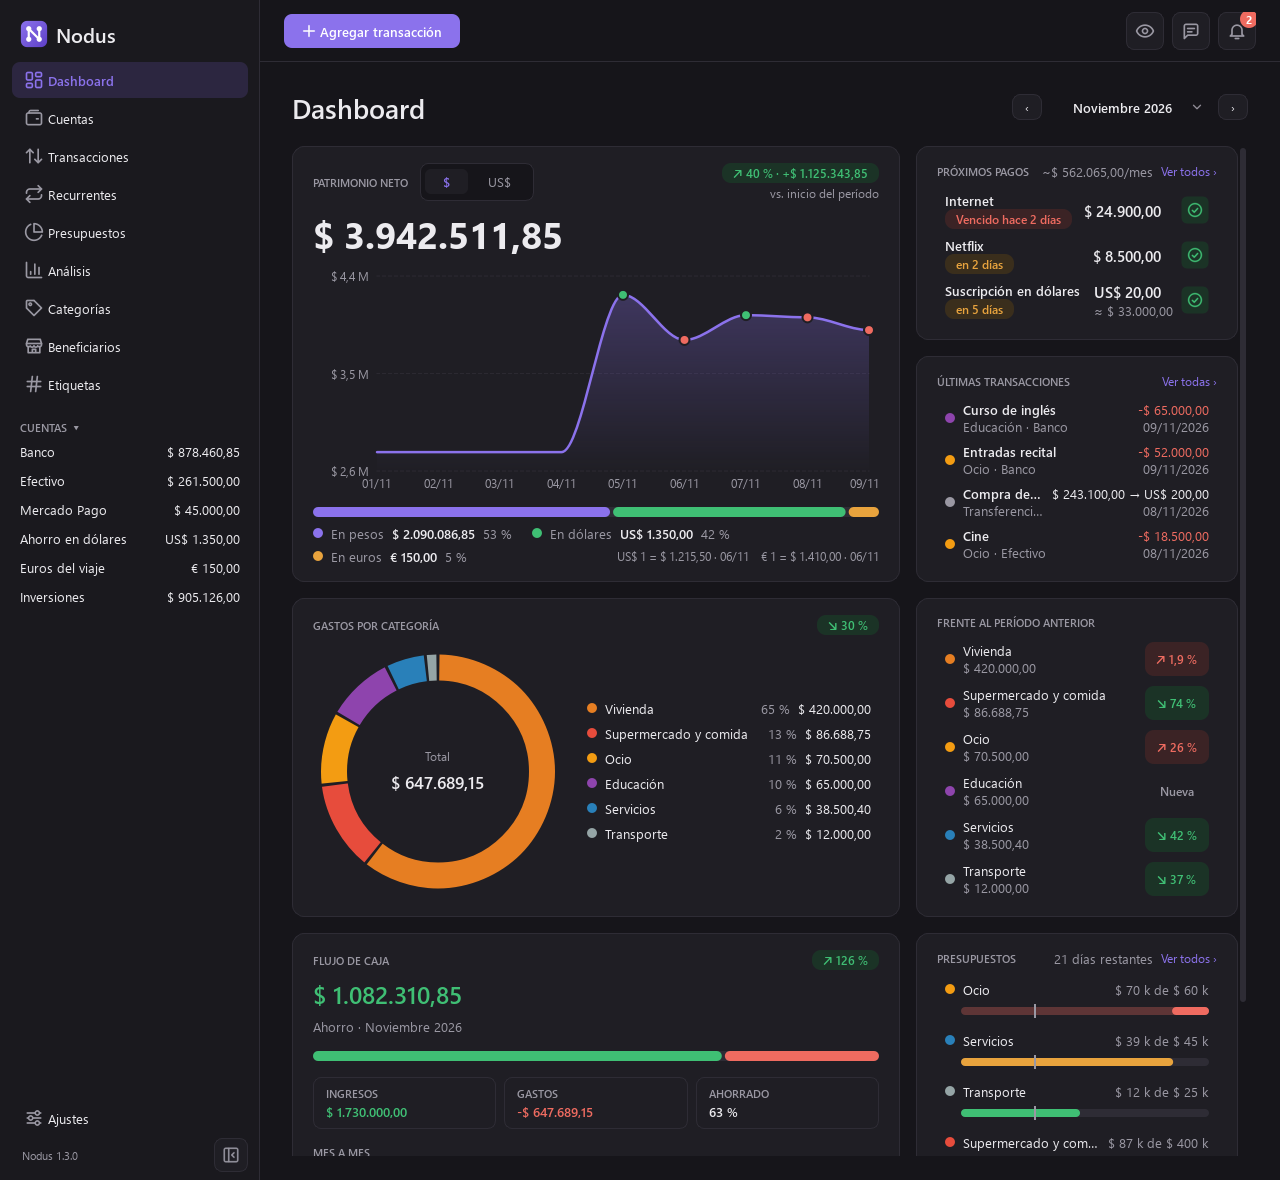
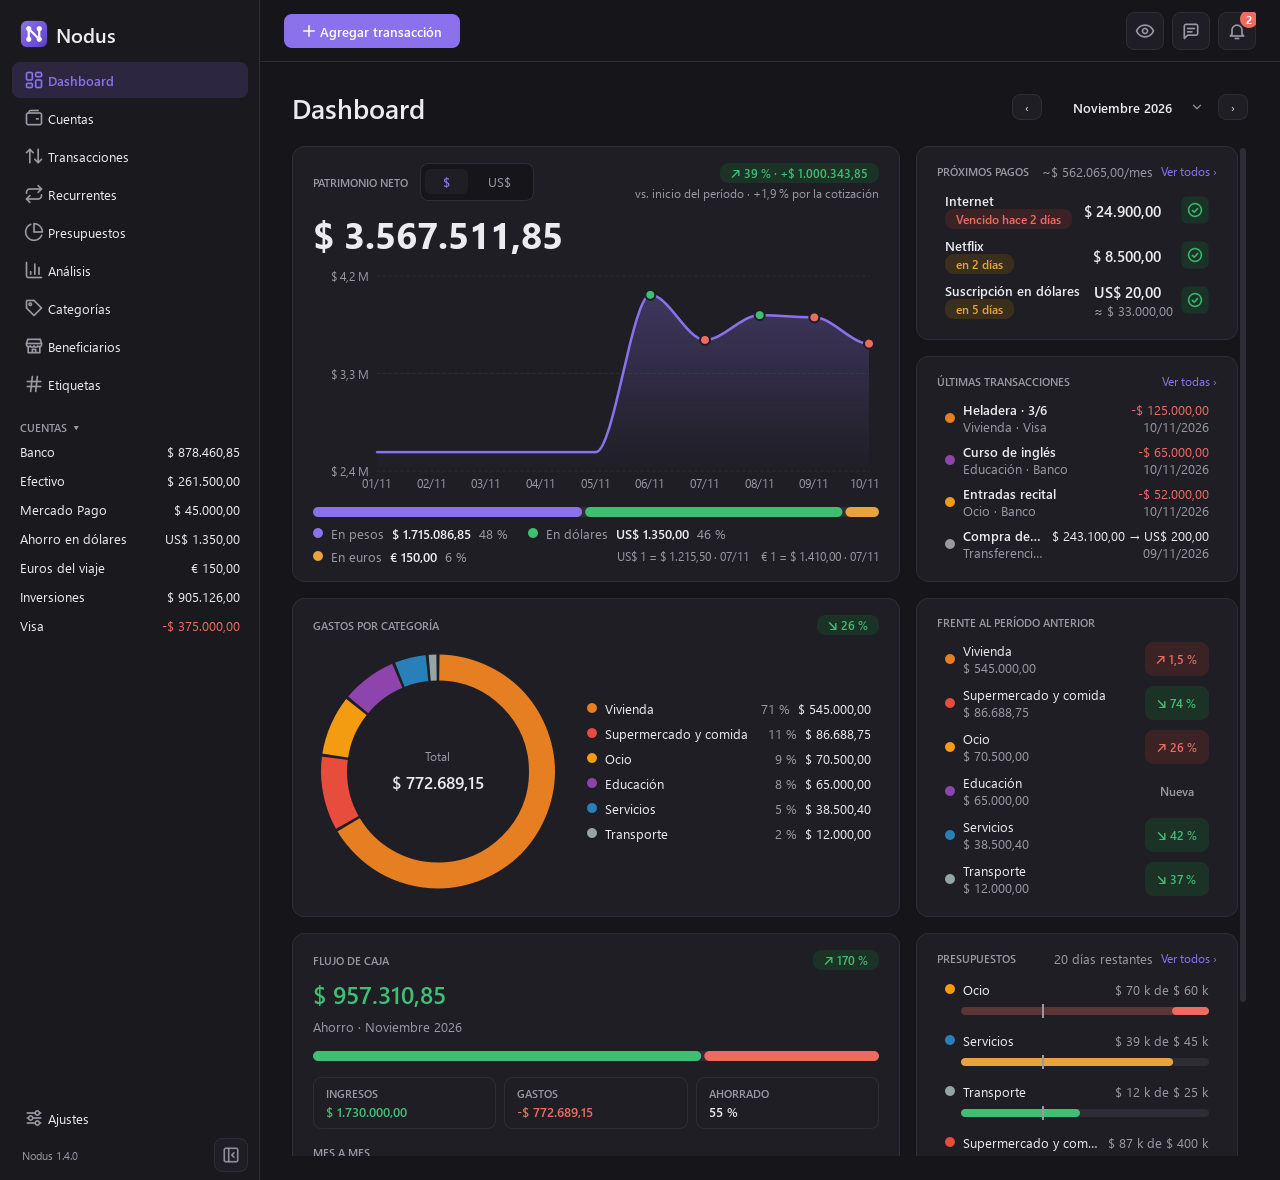
release: v1.4.0
Bumps the version to 1.4.0, dates its CHANGELOG section, moves v1.4 to
the done part of both READMEs' roadmap (goals and account groups move to
v1.5, investments to v1.6) and renews the README screenshots.

diff --git a/src/nodus/__init__.py b/src/nodus/__init__.py
@@ -1,6 +1,6 @@
 """Nodus: local-first personal finance desktop application."""
 
-__version__ = "1.3.0"
+__version__ = "1.4.0"
 
 # How Windows tells Nodus apart from other programs on the taskbar. The running process
 # and the installer's shortcuts must carry the same one: a pinned window whose ID no

diff --git a/README.es.md b/README.es.md
@@ -130,10 +130,10 @@ Para actualizar, toca «Actualizar» cuando Nodus avise que hay una versión nue
 
 ## Hoja de ruta
 
-Nodus crece por versiones pequeñas y estables. La **v1.0**, la primera estable, incluye cuentas, transacciones, cotización del dólar, rendimiento de inversiones, dashboard, cargos recurrentes, presupuestos, beneficiarios, etiquetas, reembolsos, análisis, copias de seguridad y exportación. La **v1.1** sumó euros y pesos chilenos, billeteras virtuales, cuentas en el orden que quieras, cualquier color para categorías y etiquetas, abrir con Windows, enviar comentarios desde la aplicación y un resumen de las novedades después de cada actualización. La **v1.3** trajo actualizar con un clic, un menú en cada fila, selección de varias filas a la vez, una página para cada cuenta, beneficiario y etiqueta, y una interfaz más ordenada. Lo que viene:
+Nodus crece por versiones pequeñas y estables. La **v1.0**, la primera estable, incluye cuentas, transacciones, cotización del dólar, rendimiento de inversiones, dashboard, cargos recurrentes, presupuestos, beneficiarios, etiquetas, reembolsos, análisis, copias de seguridad y exportación. La **v1.1** sumó euros y pesos chilenos, billeteras virtuales, cuentas en el orden que quieras, cualquier color para categorías y etiquetas, abrir con Windows, enviar comentarios desde la aplicación y un resumen de las novedades después de cada actualización. La **v1.3** trajo actualizar con un clic, un menú en cada fila, selección de varias filas a la vez, una página para cada cuenta, beneficiario y etiqueta, y una interfaz más ordenada. La **v1.4** sumó compras en cuotas, cuánto de la variación del patrimonio se debe a la cotización, errores debajo del campo que los causa y sugerencias de beneficiario que ponen primero los que más usas. Lo que viene:
 
-- **v1.4 — Cuotas, metas y grupos de cuentas:** compras en cuotas, ahorrar para algo concreto y agrupar bancos, inversiones y efectivo.
-- **v1.5 — Inversiones:** una sección propia para seguirlas.
+- **v1.5 — Metas y grupos de cuentas:** ahorrar para algo concreto y agrupar bancos, inversiones y efectivo.
+- **v1.6 — Inversiones:** una sección propia para seguirlas.
 
 ## Tecnología
 

diff --git a/README.md b/README.md
@@ -132,10 +132,10 @@ To update, click «Actualizar» when Nodus announces a new version: it downloads
 
 ## Roadmap
 
-Nodus grows in small, stable releases. **v1.0**, the first stable one, covers accounts, transactions, dollar exchange rates, investment returns, the dashboard, recurring charges, budgets, payees, tags, refunds, analysis, backups and export. **v1.1** added euros and Chilean pesos, virtual wallets, accounts in your own order, any color for categories and tags, opening with Windows, sending feedback from the app and a summary of what's new after each update. **v1.3** brought one-click updates, a menu on every row, choosing several rows at once, a page for each account, payee and tag, and a tidier interface. Coming next:
+Nodus grows in small, stable releases. **v1.0**, the first stable one, covers accounts, transactions, dollar exchange rates, investment returns, the dashboard, recurring charges, budgets, payees, tags, refunds, analysis, backups and export. **v1.1** added euros and Chilean pesos, virtual wallets, accounts in your own order, any color for categories and tags, opening with Windows, sending feedback from the app and a summary of what's new after each update. **v1.3** brought one-click updates, a menu on every row, choosing several rows at once, a page for each account, payee and tag, and a tidier interface. **v1.4** added purchases paid in installments, the share of net worth's change that comes from the exchange rate, errors shown under the field that causes them, and payee suggestions that put first the ones you use. Coming next:
 
-- **v1.4 — Installments, goals and account groups:** purchases paid in installments, saving for something specific, and grouping banks, investments and cash.
-- **v1.5 — Investments:** a section of its own to follow them.
+- **v1.5 — Goals and account groups:** saving for something specific, and grouping banks, investments and cash.
+- **v1.6 — Investments:** a section of its own to follow them.
 
 ## Technology
 

diff --git a/CHANGELOG.md b/CHANGELOG.md
@@ -2,7 +2,7 @@
 
 Lo que trae cada versión, de la más nueva a la más vieja. Para actualizar, toca «Actualizar» cuando Nodus avise que hay una versión nueva: tus datos se conservan.
 
-## 1.4.0
+## 1.4.0 — 2026-11-10
 
 - Compras en cuotas: al anotar un gasto, elige en cuántas cuotas se paga y si el monto es el total o lo que vale cada una. Nodus anota todas las cuotas, cada una se descuenta de la cuenta el día que le toca y las que faltan se ven más tenues, con «3/6» junto al nombre. Recurrentes muestra las compras en curso y cuánto se llevan las cuotas por mes, y cada tarjeta dice cuánto queda por pagar.
 - Cualquier cuota abre su compra entera: cámbiala, adelanta las cuotas que faltan (y deshazlo si te equivocaste) o elimínala con todas sus cuotas.
